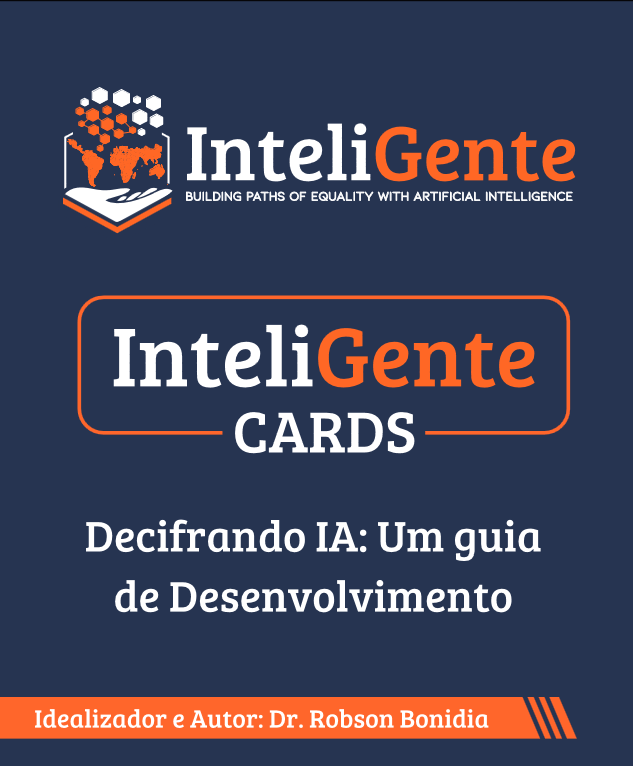
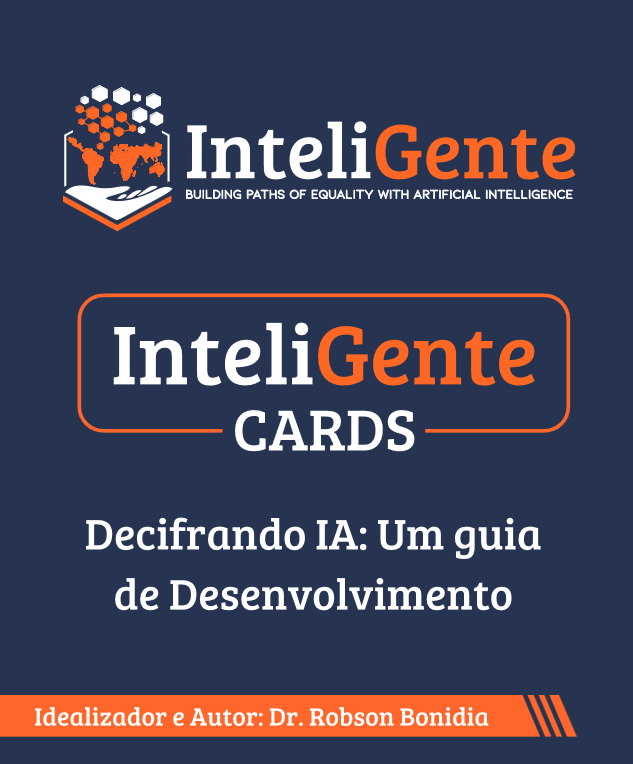
:bug: fix: correção na animação da carta

diff --git a/src/styles/hero-card-flip.css b/src/styles/hero-card-flip.css
@@ -9,8 +9,8 @@
 }
 
 .hero-card-container {
-  width: 280px;
-  height: 380px;
+  width: 275.22px;
+  height: 332.17px;
 }
 
 .hero-card-inner {
@@ -18,8 +18,13 @@
   height: 100%;
   position: relative;
   transform-style: preserve-3d;
-  animation: cardFlip 5s ease-in-out infinite;
+  transform: rotateZ(10deg);
+  transition: transform 1s ease;
   border-radius: 12px;
+}
+
+.hero-card-wrap:hover .hero-card-inner {
+  transform: rotateZ(15deg) rotateY(180deg);
 }
 
 .hero-card-front, .hero-card-back {
